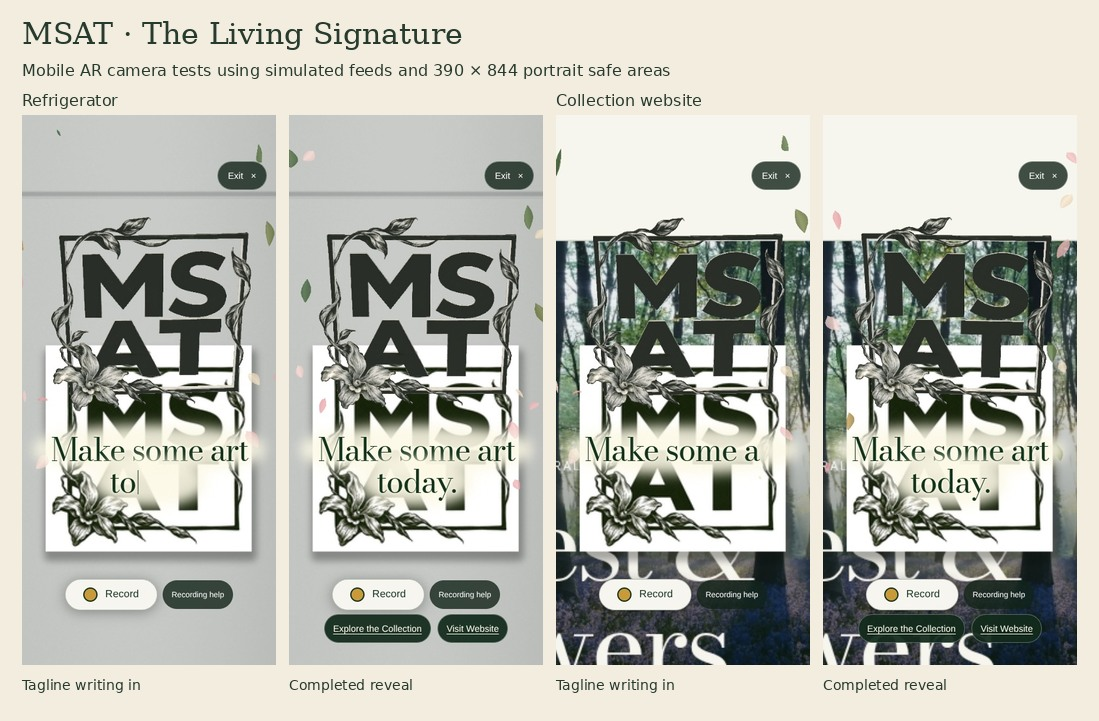
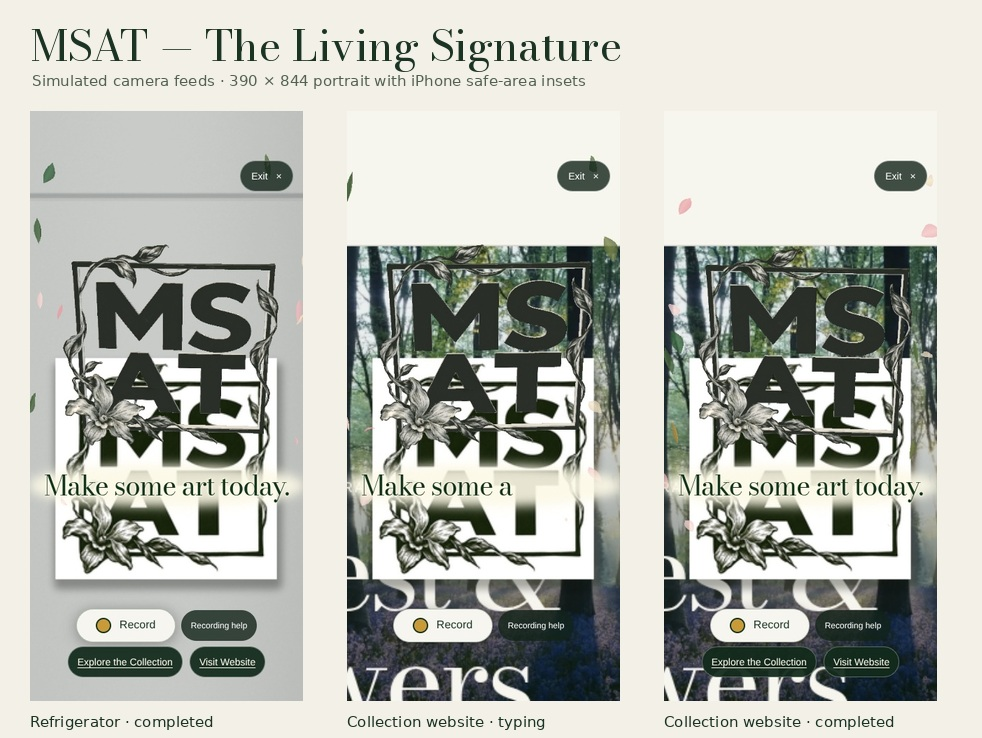
Keep the MSAT tagline on a single line

diff --git a/src/ar/experimental/msatOverlay.ts b/src/ar/experimental/msatOverlay.ts
@@ -2,15 +2,13 @@ import { MSAT_ENTRANCE_SECONDS, msatTagline } from '../msatConfig';
 import { coverRect } from '../recording';
 
 export type EmblemBounds = { left: number; top: number; right: number; bottom: number };
-const singleLine = [msatTagline];
-const twoLines = ['Make some art', 'today.'];
 const lineHeight = 1.02;
 const forest = '#12351d';
 
 type CaptionFrame = {
   fontSize: number;
-  widths: number[];
-  glyphs: HTMLElement[];
+  width: number;
+  glyphs: HTMLElement;
   caret: HTMLElement;
   busy: boolean;
   center: number;
@@ -73,6 +71,7 @@ export function mountMsatHud(host: HTMLElement) {
 export function createMsatOverlay(host: HTMLElement) {
   const caption = host.querySelector<HTMLElement>('.msat-tagline')!;
   const nav = host.querySelector<HTMLElement>('.msat-nav')!;
+  const controls = host.querySelector<HTMLElement>('.ar-controls')!;
   const surface = host.querySelector<HTMLElement>('.ar-surface')!;
   const video = surface.querySelector('video')!;
   const style = getComputedStyle(host);
@@ -82,16 +81,29 @@ export function createMsatOverlay(host: HTMLElement) {
   caret.className = 'msat-caret';
   caret.dataset.msatCaret = '';
   caret.setAttribute('aria-hidden', 'true');
+  const line = document.createElement('span');
+  line.className = 'msat-line';
+  line.setAttribute('aria-hidden', 'true');
+  const sizer = document.createElement('span');
+  sizer.className = 'msat-line-sizing';
+  sizer.textContent = msatTagline;
+  const glyphContainer = document.createElement('span');
+  glyphContainer.className = 'msat-glyphs';
+  const typed = document.createElement('span');
+  typed.dataset.msatTyped = '';
+  glyphContainer.append(typed, caret);
+  line.append(sizer, glyphContainer);
+  caption.replaceChildren(line);
   const sampler = document.createElement('canvas');
   sampler.width = 12;
   sampler.height = 6;
   let sampleContext = sampler.getContext('2d', { willReadFrequently: true });
   let sampleAt = -Infinity, busy = true, width = 0, height = 0, fontSize = 44;
-  let rows: { wrapper: HTMLElement; glyphContainer: HTMLElement; typed: HTMLElement; string: string; offset: number }[] = [];
+  let leftEdge = 20, rightEdge = 20;
   let captionFrame: CaptionFrame | undefined;
   let lastCount = -1, lastCursor = false, shown = false, lastComplete = false;
   void document.fonts?.load('400 48px "Bodoni Moda"', msatTagline).then(() => {
-    captionFrame = undefined;
+    width = 0;
   }, () => {});
 
   function measure() {
@@ -100,31 +112,12 @@ export function createMsatOverlay(host: HTMLElement) {
     if (w === width && h === height) return;
     width = w;
     height = h;
-    const lines = w <= 520 ? twoLines : singleLine;
-    fontSize = Math.max(27, Math.min(64, w * (lines === twoLines ? .125 : .087), h * .105));
+    const rect = controls.getBoundingClientRect();
+    leftEdge = rect.width ? Math.max(20, rect.left + 10) : 20;
+    rightEdge = rect.width ? Math.min(w - 20, rect.right - 10) : w - 20;
+    fontSize = Math.min(68, w * .104, h * .105);
     caption.style.fontSize = `${fontSize}px`;
-    caption.replaceChildren();
-    let offset = 0;
-    rows = lines.map(string => {
-      const wrapper = document.createElement('span');
-      wrapper.className = 'msat-line';
-      wrapper.setAttribute('aria-hidden', 'true');
-      const sizer = document.createElement('span');
-      sizer.className = 'msat-line-sizing';
-      sizer.textContent = string;
-      const glyphContainer = document.createElement('span');
-      glyphContainer.className = 'msat-glyphs';
-      const typed = document.createElement('span');
-      typed.dataset.msatTyped = '';
-      glyphContainer.append(typed);
-      wrapper.append(sizer, glyphContainer);
-      caption.append(wrapper);
-      const row = { wrapper, glyphContainer, typed, string, offset };
-      offset += string.length + 1;
-      return row;
-    });
     captionFrame = undefined;
-    lastCount = -1;
   }
 
   function sample(at: number, left: number, top: number, span: number, depth: number) {
@@ -156,7 +149,7 @@ export function createMsatOverlay(host: HTMLElement) {
   return {
     captionHeight() {
       measure();
-      return rows.length * fontSize * lineHeight + fontSize * .47;
+      return fontSize * (lineHeight + .47);
     },
     update(elapsed: number, reduced: boolean, tracked: boolean, bounds?: EmblemBounds) {
       const phase = msatTypewriter(elapsed, start, duration, reduced);
@@ -172,32 +165,30 @@ export function createMsatOverlay(host: HTMLElement) {
       shown = true;
       if (lastCount !== phase.count || lastCursor !== phase.cursor || lastComplete !== phase.complete) {
         caption.dataset.typing = phase.complete ? 'complete' : 'typing';
-        let active = rows[0];
-        for (const row of rows) {
-          const length = Math.max(0, phase.count - row.offset);
-          row.typed.textContent = row.string.slice(0, length);
-          if (phase.count >= row.offset) active = row;
-          row.wrapper.toggleAttribute('data-painted', length > 0);
-        }
+        typed.textContent = msatTagline.slice(0, phase.count);
+        line.toggleAttribute('data-painted', phase.count > 0);
         caret.hidden = !phase.cursor;
-        if (phase.cursor) active.glyphContainer.append(caret);
         lastCount = phase.count;
         lastCursor = phase.cursor;
         lastComplete = phase.complete;
       }
       if (!captionFrame) {
-        captionFrame = {
-          fontSize, widths: rows.map(row => row.wrapper.getBoundingClientRect().width),
-          glyphs: rows.map(row => row.typed), caret, busy, center: 0, top: 0,
-        };
+        const textWidth = line.getBoundingClientRect().width;
+        const available = Math.max(1, rightEdge - leftEdge);
+        if (textWidth > available) {
+          fontSize *= available / textWidth;
+          caption.style.fontSize = `${fontSize}px`;
+        }
+        captionFrame = { fontSize, width: line.getBoundingClientRect().width,
+          glyphs: typed, caret, busy, center: 0, top: 0 };
       }
-      const span = Math.max(...captionFrame.widths);
-      const margin = Math.min(width / 2, span / 2 + 16);
-      const center = Math.max(margin, Math.min(width - margin, (bounds.left + bounds.right) / 2));
+      const span = captionFrame.width;
+      const center = Math.max(leftEdge + span / 2,
+        Math.min(rightEdge - span / 2, (bounds.left + bounds.right) / 2));
       const top = bounds.bottom + Math.min(14, fontSize * .24);
       if (center !== captionFrame.center) caption.style.left = `${center}px`;
       if (top !== captionFrame.top) caption.style.top = `${top}px`;
-      sample(elapsed, center - span / 2, top, span, rows.length * fontSize * lineHeight);
+      sample(elapsed, center - span / 2, top, span, fontSize * lineHeight);
       captionFrame.center = center;
       captionFrame.top = top;
       captionFrame.busy = busy;
@@ -217,21 +208,20 @@ export function drawMsatCaption(ctx: CanvasRenderingContext2D, width: number, he
   const caption = captionFrames.get(host);
   const surface = host.querySelector<HTMLElement>('.ar-surface');
   if (!caption || !surface?.clientWidth || !surface.clientHeight) return;
-  const { widths, glyphs, caret, busy, fontSize, center, top } = caption;
+  const { width: textWidth, glyphs, caret, busy, fontSize, center, top } = caption;
   ctx.save();
   ctx.scale(width / surface.clientWidth, height / surface.clientHeight);
   ctx.font = `400 ${fontSize}px "Bodoni Moda", Didot, Georgia, serif`;
   ctx.letterSpacing = `${fontSize * -.035}px`;
   ctx.textBaseline = 'middle';
   const rowHeight = fontSize * lineHeight;
-  for (let i = 0; i < widths.length; i++) {
-    const text = glyphs[i].textContent;
-    if (!text) continue;
-    const left = center - widths[i] / 2;
-    const y = top + (i + .5) * rowHeight;
+  const text = glyphs.textContent;
+  if (text) {
+    const left = center - textWidth / 2;
+    const y = top + .5 * rowHeight;
     ctx.save();
     ctx.translate(center, y);
-    ctx.scale(widths[i] / 2 + fontSize * .62, rowHeight * .75);
+    ctx.scale(textWidth / 2 + fontSize * .62, rowHeight * .75);
     const halo = ctx.createRadialGradient(0, 0, .16, 0, 0, 1);
     halo.addColorStop(0, `rgba(252,248,230,${busy ? .95 : .77})`);
     halo.addColorStop(.70, `rgba(252,248,230,${busy ? .84 : .59})`);
